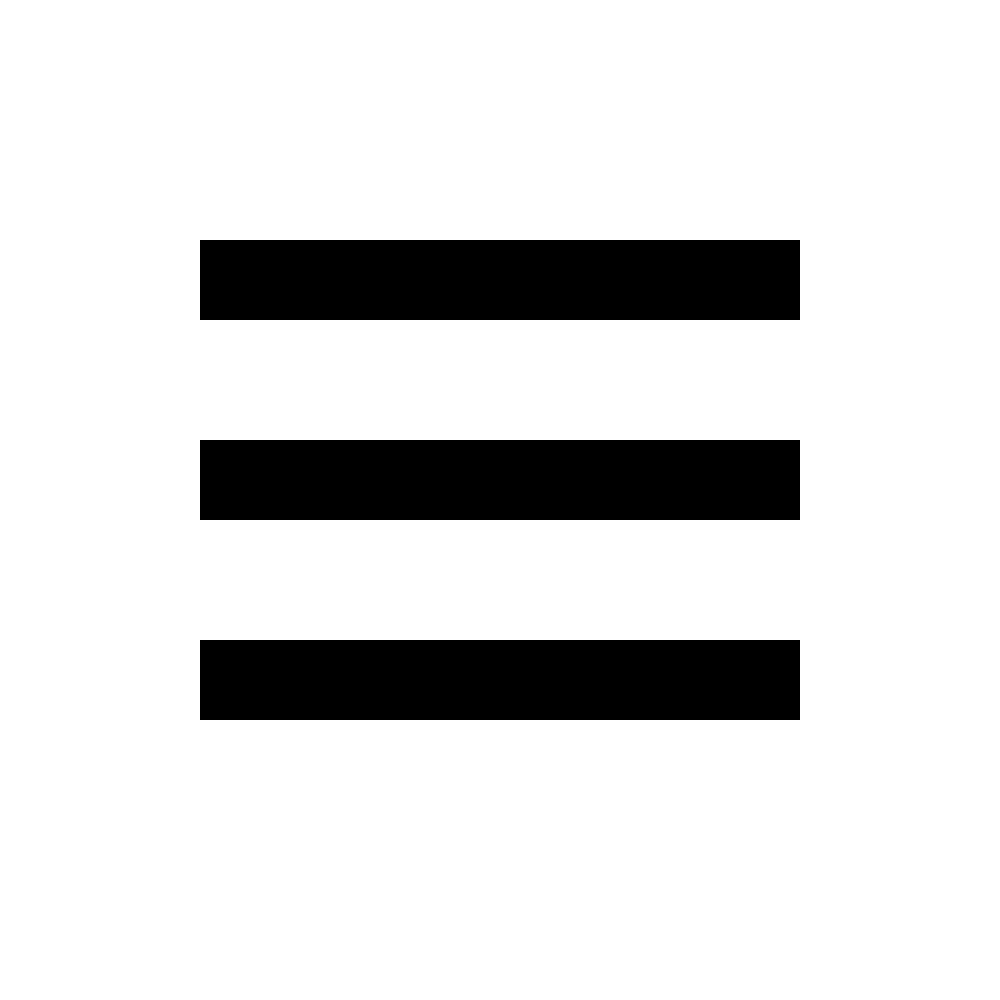
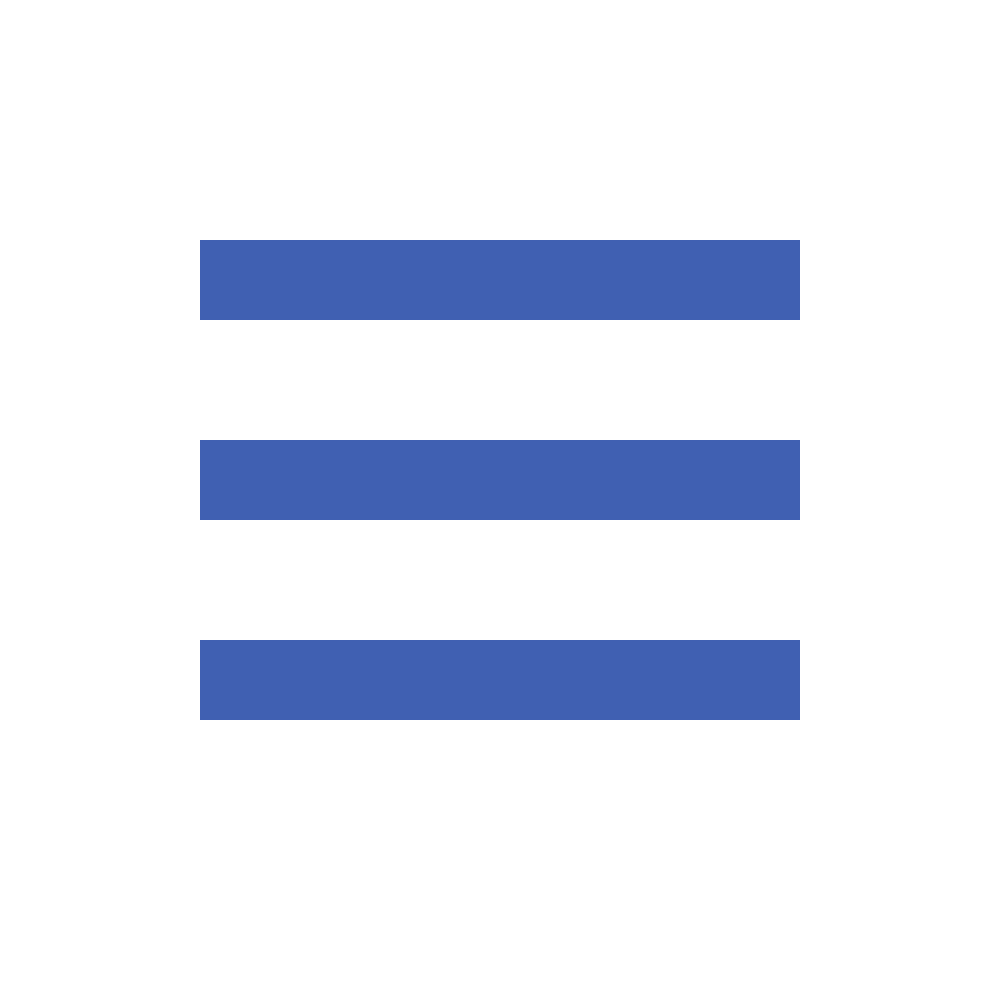
v1.0
page result finie

Changed region(s): [[0.186, 0.62, 0.806, 0.744], [0.186, 0.217, 0.806, 0.341], [0.186, 0.434, 0.806, 0.527]]

diff --git a/assets/css/style.css b/assets/css/style.css
@@ -8,26 +8,58 @@ header
 	width:100%;
 	z-index:1;
 }
-#menu
+body
+{
+    background: #212a41 url("../img/noelv2.png") center top !important;
+    background-size: 50%;
+		margin-top:8%;
+		background-repeat:repeat;
+		background-size: 100%;
+		-ms-user-select:none;
+		cursor:default;
+}
+footer
+{
+  position: relative;
+  background-color: whitesmoke;
+  text-align: center;
+  bottom: 0px;
+  left: 0px;
+  height: 5%;
+  width: 100%;
+}
+#panier
+{
+	position:absolute;
+	top:45%;
+	right:10%;
+}
+nav
 {
 	display:block;
-	width:65px;
-	height:65px;
+	position:absolute;
+	left:0px;
+	top:50%;
+	width:10%;
+	height:50%;
 	overflow:hidden;
+	color:rgb(77,79,166);
 }
-#menu:hover
+nav:hover
 {
-	transition:0.5;
+	transition:0.5s;
 	width:20%;
 	height:300px;
+	border-bottom-right-radius: 0.5em;
 	background-color: whitesmoke;
+	color: rgb(64, 96, 178);
 }
-#menu button
+nav button
 {
 	border:none;
 	background-color: whitesmoke;
 }
-#menu li
+nav li
 {
 	font-size:1.5em;
 	list-style: none;
@@ -37,17 +69,17 @@ header
 	padding-left: 0px;
 	text-align:center;
 	padding:10px;
-	border-left: 4px blue solid;
+	border-left: 4px rgb(64, 96, 178) solid;
 	font-weight: bold;
 }
-#menu ul
+nav ul
 {
 	width:95%;
 	margin-top:10px;
 	margin-left: 0px;
 	padding-left: 0px;
 }
-#menu li:hover
+nav li:hover
 {
 	transition:0.5s ease;
 	background-color:grey;
@@ -79,28 +111,6 @@ header
 	border-radius: 5%;
 	background-color: white
 }
-
-
-body
-{
-    background: #212a41 url("../img/noelv2.png") center top !important;
-    background-size: 50%;
-		margin-top:8%;
-		background-repeat:repeat;
-		background-size: 100%;
-		-ms-user-select:none;
-		cursor:default;
-}
-footer
-{
-  position: relative;
-  background-color: whitesmoke;
-  text-align: center;
-  bottom: 0px;
-  left: 0px;
-  height: 5%;
-  width: 100%;
-}
 form
 {
 	position:absolute;
@@ -115,7 +125,7 @@ form:hover , a:hover
 {
 	width:100%;
 	background-color:white;
-	border:5px solid blue;
+	border:5px solid rgb(64, 96, 178);
 }
 #ban_promo p
 {
@@ -127,22 +137,52 @@ form:hover , a:hover
 {
 	text-decoration: none;
 }
-#search_button:hover
+.header-search
 {
+	height:32px;
+	width:285px;
+	margin: 28px 10px 0;
+}
+.fond-search
+{
+	width:288px;
+	height:32px;
+	background-color:#FFFFFF;
+	border: solid 1px #CCC;
+}
+.fond-centre input[name="keywords"]
+{
+	border-width:1px !important;
+	height:20px;
+	line-height:20px;
+}
+.header-search .input-text-search
+{
+	width:235px;
+	height:22px;
+	line-height:22px;
+	padding:5px;
+	border:0;
+	background-color:transparent;
+	color:#000;
+	font-size:13px;
+	float:left;
+	margin:0;
+}
+.boutonOK
+{
+	width:38px;
+	height:32px;
+	border:none ;
 	cursor:pointer;
-}
-#search input
-{
-	height:150%;
-}
-#search_text
-{
-	width:250px;
-}
-#search_button
-{
+	border-radius:0;
+	text-indent:-100px;
+	background:rgb(64,96,178) url("../img/loupe.png");
+	background-position: center center;
+	background-repeat: no-repeat;
 	float:right;
-}
+ }
+
 #logo
 {
 	text-align:center;
@@ -186,11 +226,11 @@ article
 }
 article:hover
 {
-	box-shadow:2px 2px grey;
+	box-shadow:3px 3px grey;
 }
 article input
 {
-	background-color:blue;
+	background-color:rgb(64, 96, 178);
 	color:whitesmoke;
 	width:100%;
 	height:50px;
@@ -199,7 +239,7 @@ article input
 }
 article input:hover
 {
-    position: relative;
+		background-color:rgb(50, 10, 180) ;
     box-shadow: 1px 2px 4px rgba(0, 0, 0, .5);
     padding: 10px;
 		cursor:pointer;

diff --git a/index.html b/index.html
@@ -14,21 +14,27 @@
 				<img src="assets/img/logo.png" alt="logo" width="120" height="50">
 				<h1>Dron'Ad Air</h1>
 			</div>
-			<form action="contact.html">
-               <input type="text" placeholder="Rechercher..."/>
-               <input type="button" value=" " />
-      </form>
-      <setion id="menu">
-              <nav>
-              <button type="button" value=""><img src="assets/img/menu.png" alt="logo" width="50" height="50"></button>
-              <ul id="side-menu">
-                <li><a>L'article de la semaine</a></li>
-                <li><a>Nouveautés</a></li>
-                <li><a>Multirotors</a></li>
-                <li><a>Drones de courses</a></li>
-              </ul>
-              </nav>
-      </setion>
+      <section>
+        <div class="header-search Head_recherche">
+              <form name="form_recherche" action="results.html" method="get">
+                  <div class="fond-search fleft">
+                      <input name="keywords" class="input-text-search" type="text" maxlength="255" placeholder="Recherche...">
+                      <input name="" class="boutonOK fleft" type="submit" value="">
+                  </div>
+              </form>
+        </div>
+            <a><img id="panier" src="assets/img/panier.png" alt="panier" width="50"></a>
+    </section>
+
+      <nav>
+          <button type="button" value=""><img src="assets/img/menu.png" alt="logo" width="50" height="50"></button>
+          <ul id="side-menu">
+            <li><a>L'article de la semaine</a></li>
+            <li><a>Nouveautés</a></li>
+            <li><a>Multirotors</a></li>
+            <li><a>Drones de courses</a></li>
+          </ul>
+      </nav>
 		</header>
     <div class="snow-container">
         <div class="snow foreground"></div>

diff --git a/results.html b/results.html
@@ -13,10 +13,26 @@
 				<img src="assets/img/logo.png" alt="logo" width="120" height="50">
 				<h1>Dron'Ad Air</h1>
 			</div>
-			<form id="search" action="contact.html">
-               <input id="search_text" type="text" placeholder="Rechercher..."/>
-               <input id="search_button" type="button" value="ok !" />
-      </form>
+      <div class="header-search Head_recherche">
+            <form name="form_recherche" action="results.html" method="get">
+                <div class="fond-search fleft">
+                    <input name="keywords" class="input-text-search" type="text" maxlength="255" placeholder="Recherche...">
+                    <input name="" class="boutonOK fleft" type="submit" value="">
+                </div>
+            </form>
+      </div>
+      <a><img id="panier" src="assets/img/panier.png" alt="panier" width="50"></a>
+      <setion id="menu">
+              <nav>
+              <button type="button" value=""><img src="assets/img/menu.png" alt="logo" width="50" height="50"></button>
+              <ul id="side-menu">
+                <li><a>L'article de la semaine</a></li>
+                <li><a>Nouveautés</a></li>
+                <li><a>Multirotors</a></li>
+                <li><a>Drones de courses</a></li>
+              </ul>
+              </nav>
+      </setion>
 		</header>
     <div class="snow-container">
         <div class="snow foreground"></div>
